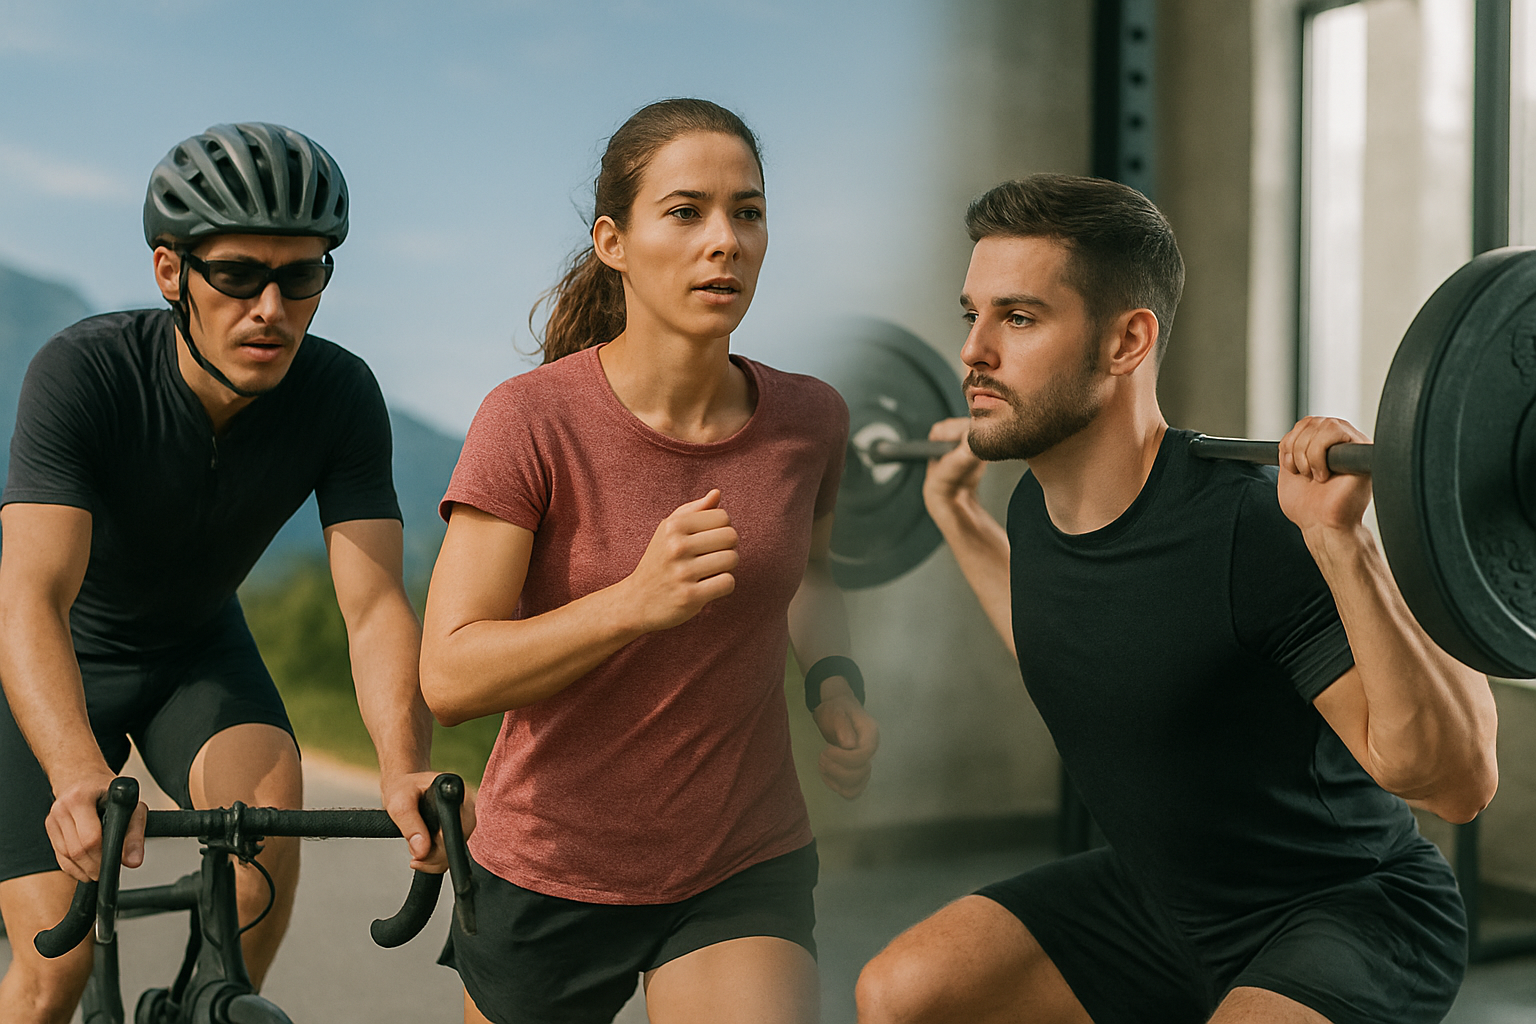
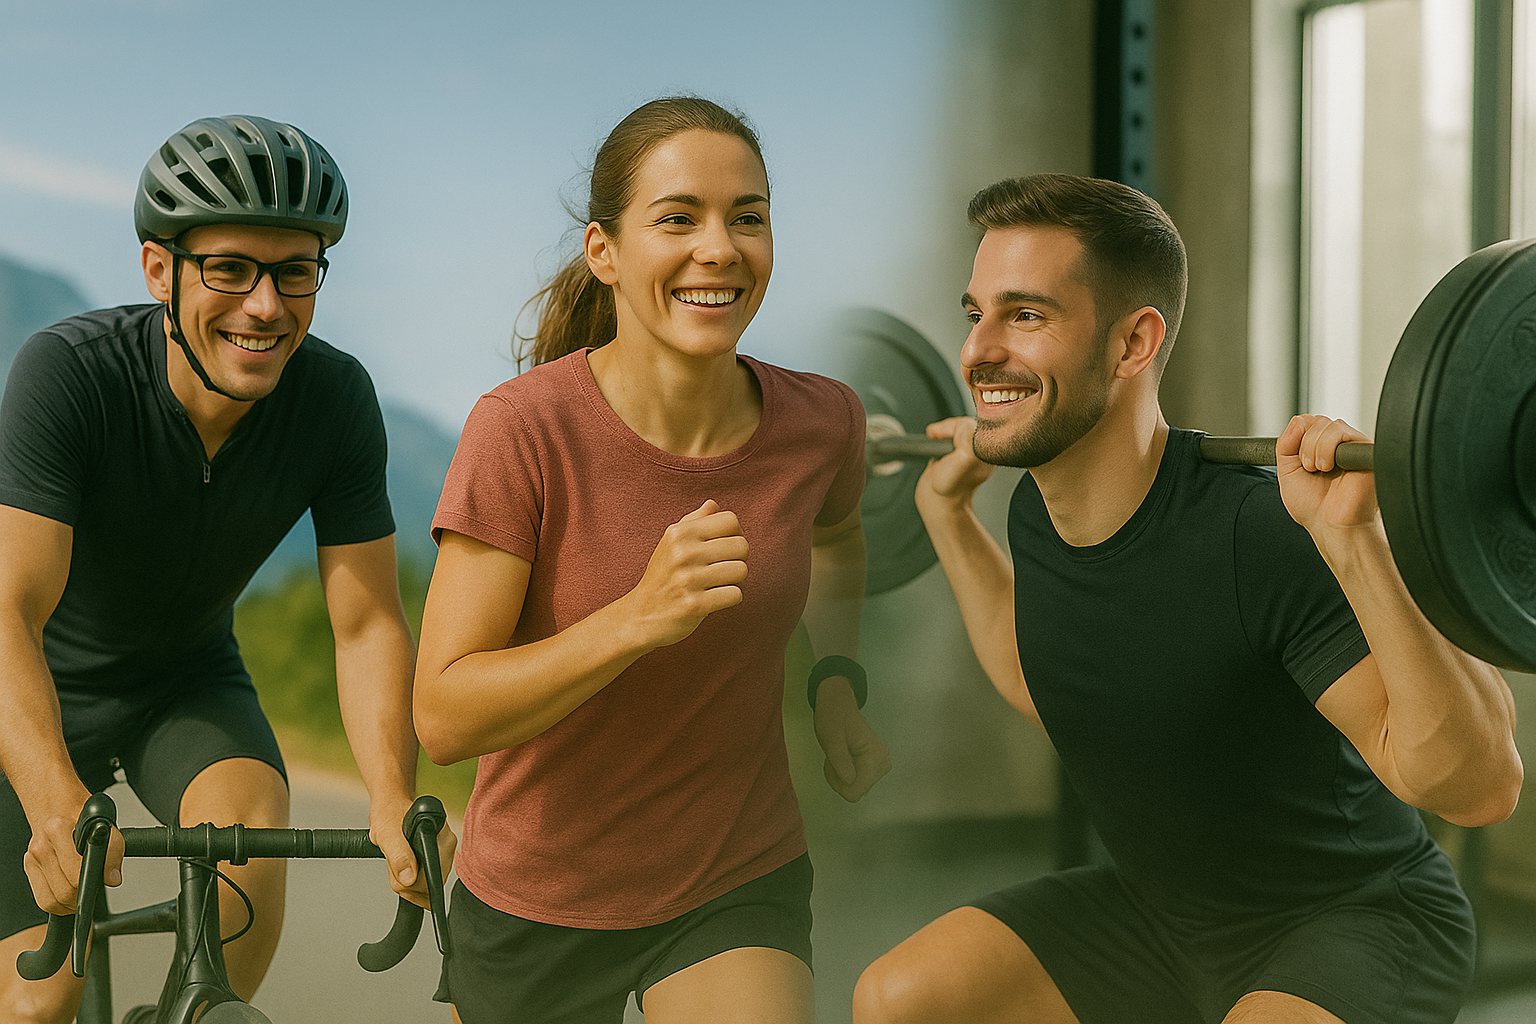
starting to work on my references page

diff --git a/pages/references.php b/pages/references.php
@@ -3,7 +3,7 @@
 <head>
     <meta charset="UTF-8">
     <meta name="viewport" content="width=device-width, initial-scale=1.0">
-    <title>Ian Hosten Referenes</title>
+    <title>Referenes</title>
 
     <link rel="stylesheet" type="text/css" href="../stylesheet.css">
     <link rel="icon" type="image/x-icon" href="/images/logo_ih_coaching.png">
@@ -11,12 +11,33 @@
     <meta name="viewport" content="width=device-width, initial-scale=1">
     
     <style>
-        #headshot{float: right;}
     </style>
 </head>
 <body>
 
     <?php require '../components/navbar.html';?>
+
+    <div id="sqs_container">
+        <div id="SQS_Logo">
+            <img src="/images/SQS_logo.png" alt="SQS Logo">
+        </div>
+        <div id="about_text">
+            Since the winter of 2024 I've been active as the strength and conditioning coach of the Soudal Quick-Step cycling team.
+            Here I am responsible for the periodization and planning of the strength training sessions of World-Tour cyclists.         
+        </div>
+    </div>
+
+    <div id="squadt_container">
+        <div id="squadt_logo">
+            <img src="/images/squadt_logo.png" alt="Squadt Logo">
+        </div>
+        <div id="about_text">
+            Since the 2024 I've been active as both an endurance and strenght coach for recreational athletes at Squadt.
+        </div>
+        <div id="about_text">
+            Since the 2024 I've been active as both an endurance and strenght coach for recreational athletes at Squadt.
+        </div>
+    </div>
     
     Professional Experience
         Soudal-Quick step
